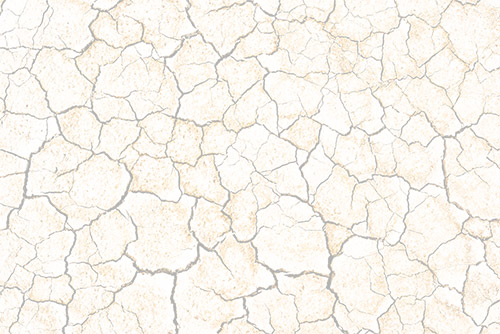
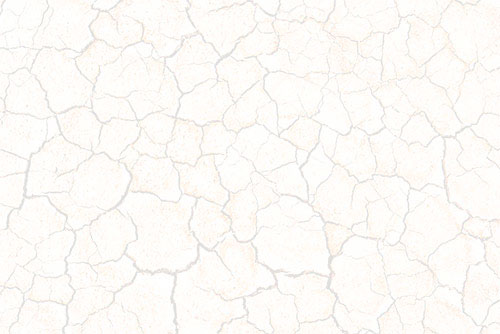
Added site bg

diff --git a/frontend/web/css/main.css b/frontend/web/css/main.css
@@ -1,8 +1,7 @@
 html,
 body {
     height: 100%;
-    /* TODO: background image */
-    /*background: url("../img/bg.jpg") repeat;*/
+    background: url("../img/bg.jpg") repeat;
 }
 
 .wrap {

diff --git a/frontend/web/css/site.css b/frontend/web/css/site.css
@@ -2,6 +2,10 @@ h1, h2, h3, h4, h5, h6 {
     margin: 0;
 }
 
+th {
+    background: #f5f5f5;
+}
+
 /* Footer */
 .full {
     width: 100%;
